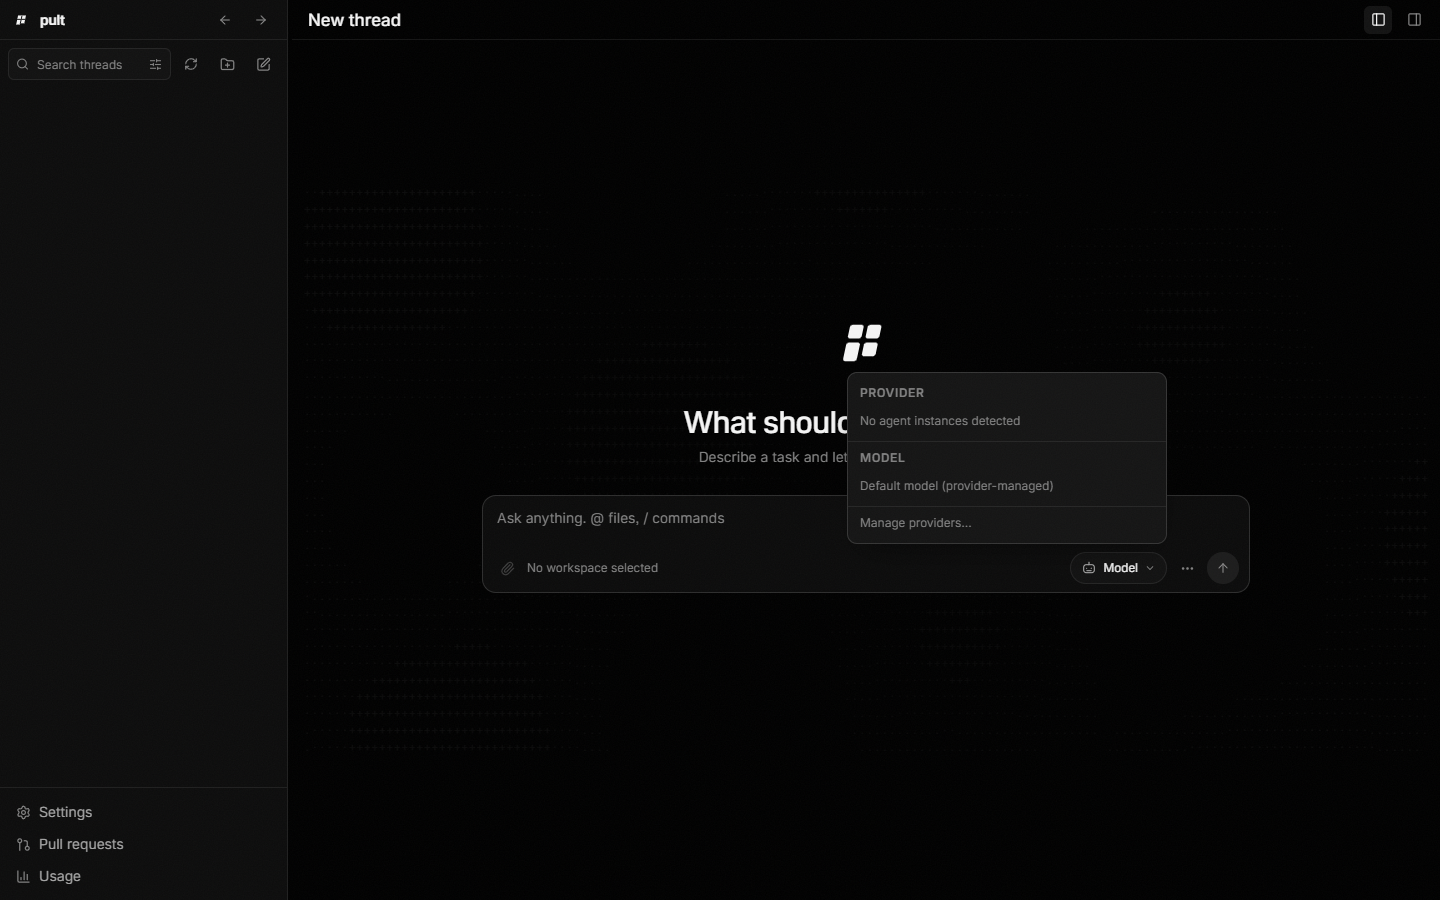
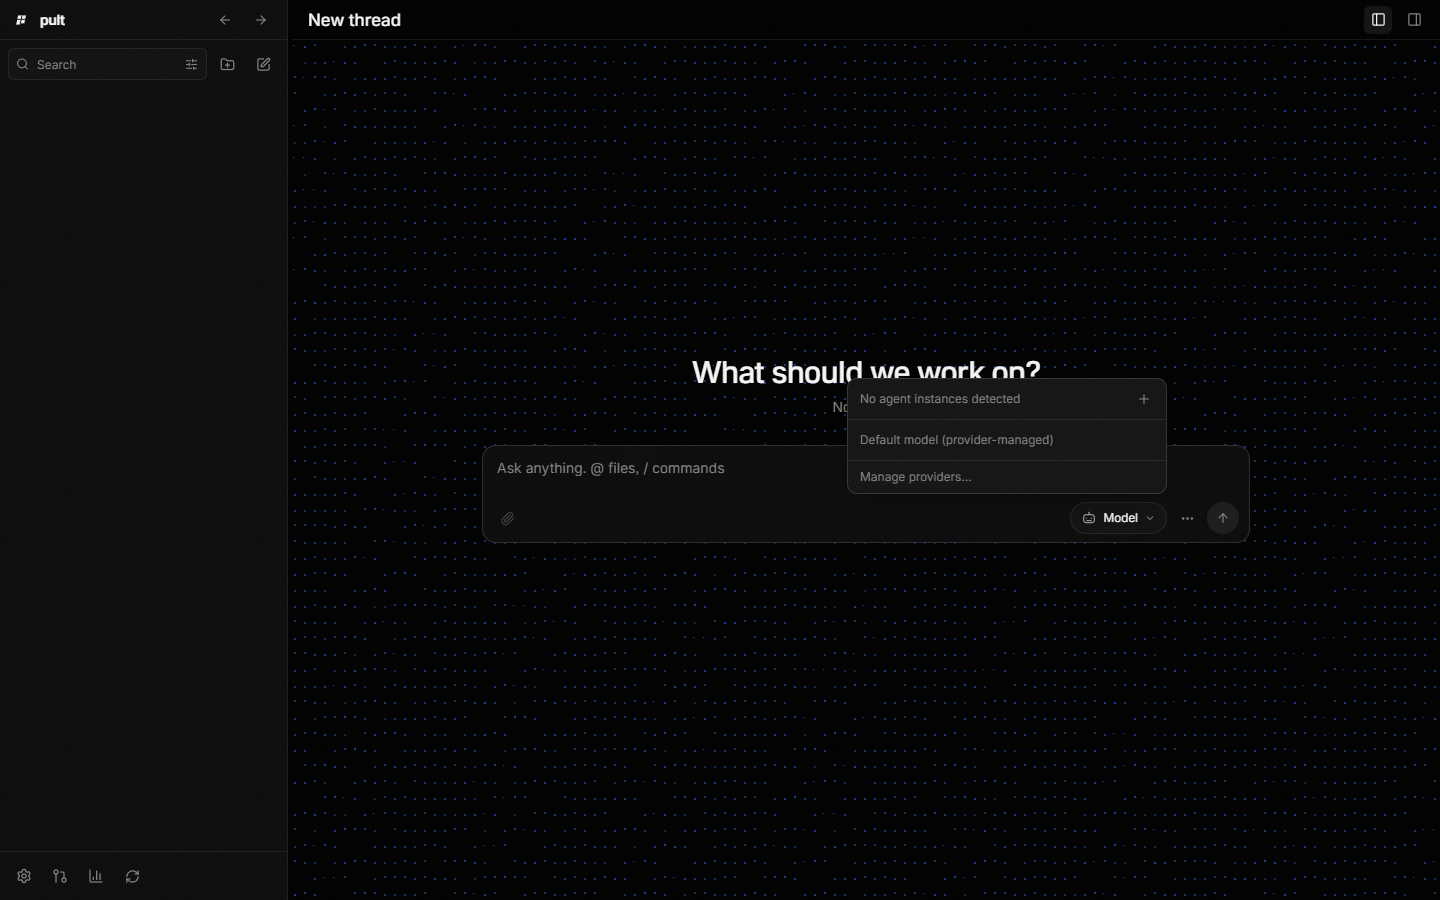
feat(chat): optimistic user bubble and brighter living ASCII

diff --git a/src/components/chat/Composer.tsx b/src/components/chat/Composer.tsx
@@ -314,6 +314,7 @@ export function Composer({ threadId }: { threadId?: string }) {
         config,
       );
       if (outcome.run) useRunsStore.getState().registerRun(outcome.run);
+      else if (outcome.queued) useRunsStore.getState().clearPendingUser(targetThreadId);
       if (mode) useRunsStore.getState().setDesiredMode(targetThreadId, mode);
       if (config) {
         for (const [id, value] of Object.entries(config)) {
@@ -429,10 +430,17 @@ export function Composer({ threadId }: { threadId?: string }) {
               useRunsStore.getState().setDesiredConfig(thread.id, configId, configValue);
             }
           }
+          // Show the bubble immediately, then navigate and dispatch; a failure
+          // clears it and surfaces in the global banner (the composer unmounts).
+          useRunsStore.getState().setPendingUser(thread.id, text, images);
+          await router.navigate({ to: "/thread/$threadId", params: { threadId: thread.id } });
           try {
             await dispatchRun(thread.id, text, images, pendingMode, pendingConfig);
-            await router.navigate({ to: "/thread/$threadId", params: { threadId: thread.id } });
-            // The pending picks now belong to this thread; never to the next one.
+          } catch (err) {
+            useRunsStore.getState().clearPendingUser(thread.id);
+            useUiStore
+              .getState()
+              .setGlobalError({ kind: "protocol", message: ipcErrorMessage(err) });
           } finally {
             if (pendingMode) useRunsStore.getState().setDesiredMode("", "");
             if (pendingConfig) useRunsStore.getState().clearDesiredConfig("");
@@ -446,7 +454,13 @@ export function Composer({ threadId }: { threadId?: string }) {
             threadId,
             selectedInstance?.configOptions,
           );
-          await dispatchRun(threadId, text, images, modeForSend(desired, threadId), config);
+          useRunsStore.getState().setPendingUser(threadId, text, images);
+          try {
+            await dispatchRun(threadId, text, images, modeForSend(desired, threadId), config);
+          } catch (err) {
+            useRunsStore.getState().clearPendingUser(threadId);
+            throw err;
+          }
         }
         resetDraft();
       } catch (err) {

diff --git a/src/stores/runs.ts b/src/stores/runs.ts
@@ -476,6 +476,10 @@ interface RunsState {
   clearElicitation: () => void;
   /** Backend-owned message queue per thread (auto-dispatch on run end). */
   queueByThread: Record<string, QueueItem[]>;
+  /** User bubbles shown immediately while the run is dispatching. */
+  pendingUserByThread: Record<string, UserChatItem | undefined>;
+  setPendingUser: (threadId: string, text: string, images: ImageInput[]) => void;
+  clearPendingUser: (threadId: string) => void;
   /** Files the agent touched via fs callbacks (Changed-files projection). */
   filesByThread: Record<string, FileChange[]>;
   /** Currently surfaced elicitation, or null (ElicitationModal). */
@@ -521,6 +525,7 @@ export const useRunsStore = create<RunsState>((set, get) => ({
   commandsByThread: {},
   filesByThread: {},
   queueByThread: {},
+  pendingUserByThread: {},
   activeElicitation: null,
   desiredModeByThread: {},
   desiredConfigByThread: {},
@@ -579,7 +584,31 @@ export const useRunsStore = create<RunsState>((set, get) => ({
       if (!exists && !(run.id in viewsByRun)) {
         viewsByRun[run.id] = emptyRunView(run.status === "running" || run.status === "queued");
       }
-      return { runsByThread: { ...s.runsByThread, [run.threadId]: nextRuns }, viewsByRun };
+      // The real run exists now; the optimistic bubble is replaced by its
+      // user_message event (which arrives right after run:started).
+      const { [run.threadId]: _dropped, ...pendingUserByThread } = s.pendingUserByThread;
+      void _dropped;
+      return {
+        runsByThread: { ...s.runsByThread, [run.threadId]: nextRuns },
+        viewsByRun,
+        pendingUserByThread,
+      };
+    }),
+
+  setPendingUser: (threadId, text, images) =>
+    set((s) => ({
+      pendingUserByThread: {
+        ...s.pendingUserByThread,
+        [threadId]: { type: "user", text, images, ts: Date.now() },
+      },
+    })),
+
+  clearPendingUser: (threadId) =>
+    set((s) => {
+      if (!(threadId in s.pendingUserByThread)) return s;
+      const { [threadId]: _dropped, ...pendingUserByThread } = s.pendingUserByThread;
+      void _dropped;
+      return { pendingUserByThread };
     }),
 
   hydrateThread: (threadId, runs, events, queue, activeRunId, desiredMode, desiredConfig) =>

diff --git a/src/components/chat/MessagesTimeline.tsx b/src/components/chat/MessagesTimeline.tsx
@@ -91,6 +91,7 @@ export function MessagesTimeline({ threadId }: { threadId?: string }) {
   const runId = activeRun?.id;
   const view = useRunsStore((s) => (runId ? s.viewsByRun[runId] : undefined));
   const entries = threadTimelineItems(runs, views);
+  const pendingUser = useRunsStore((s) => (threadId ? s.pendingUserByThread[threadId] : undefined));
   const hasView = view !== undefined;
   const bottomRef = useRef<HTMLDivElement>(null);
   const scrollRef = useRef<HTMLDivElement>(null);
@@ -207,6 +208,12 @@ export function MessagesTimeline({ threadId }: { threadId?: string }) {
             </button>
           )}
           {windowedEntries.length > 0 && <TimelineRows entries={windowedEntries} />}
+
+          {pendingUser && (
+            <div>
+              <UserRow text={pendingUser.text} images={pendingUser.images} ts={pendingUser.ts} />
+            </div>
+          )}
 
           {view.streaming && activeRun?.startedAt !== undefined && (
             <WorkingTimer startedAt={activeRun.startedAt} />

diff --git a/src/lib/asciiWave.ts b/src/lib/asciiWave.ts
@@ -51,7 +51,7 @@ export function cellBrightness(
   pointer: Ripple | null,
   pulses: Ripple[],
 ): number {
-  let value = 0.16 + ambientValue(x, y, nowMs) * 0.18;
+  let value = 0.2 + ambientValue(x, y, nowMs) * 0.3;
   if (pointer) value += rippleValue(x, y, pointer.x, pointer.y, nowMs, pointer.strength) * 0.55;
   for (const pulse of pulses) value += pulseValue(x, y, pulse, nowMs) * 0.8;
   return Math.min(1, value);
@@ -62,6 +62,7 @@ export function cellGlyph(x: number, y: number, brightness: number): string {
   const noise = Math.sin(x * 12.9898 + y * 78.233) * 43758.5453;
   const pick = Math.abs(noise - Math.floor(noise));
   if (brightness > 0.62) return pick > 0.5 ? "+" : "*";
-  if (brightness > 0.4) return pick > 0.5 ? "·" : "⋅";
-  return pick > 0.55 ? "." : " ";
+  if (brightness > 0.46) return pick > 0.5 ? "·" : "⋅";
+  if (brightness > 0.3) return pick > 0.4 ? "." : "·";
+  return pick > 0.7 ? "." : " ";
 }

diff --git a/src/components/chat/LivingAscii.tsx b/src/components/chat/LivingAscii.tsx
@@ -65,7 +65,7 @@ export function LivingAscii() {
           const brightness = cellBrightness(x, y, now, pointerRef.current, pulsesRef.current);
           const glyph = cellGlyph(col, row, brightness);
           if (glyph === " ") continue;
-          ctx.globalAlpha = Math.min(0.85, 0.1 + brightness * 1.1);
+          ctx.globalAlpha = Math.min(0.9, 0.12 + brightness * 1.25);
           ctx.fillText(glyph, x - CELL_W / 2, y);
         }
       }
